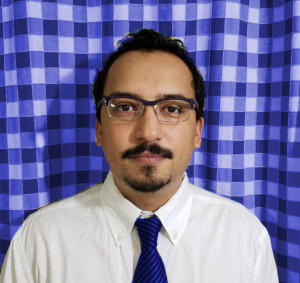
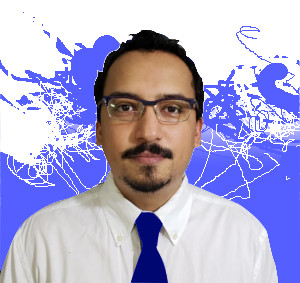
some small aesthetic changes

diff --git a/plugins/main-site/views/home.html b/plugins/main-site/views/home.html
@@ -27,7 +27,7 @@
                     
                     <img id="me" src="/main-site/static/joel-job-s.jpeg" alt="my picture in pixels">
                     
-                    <img src="/main-site/static/node-anim-white.gif" alt="nodes animation" class="background-anim">
+                    <!-- <img src="/main-site/static/node-anim-white.gif" alt="nodes animation" class="background-anim"> -->
                 </div>
             </div>
             
